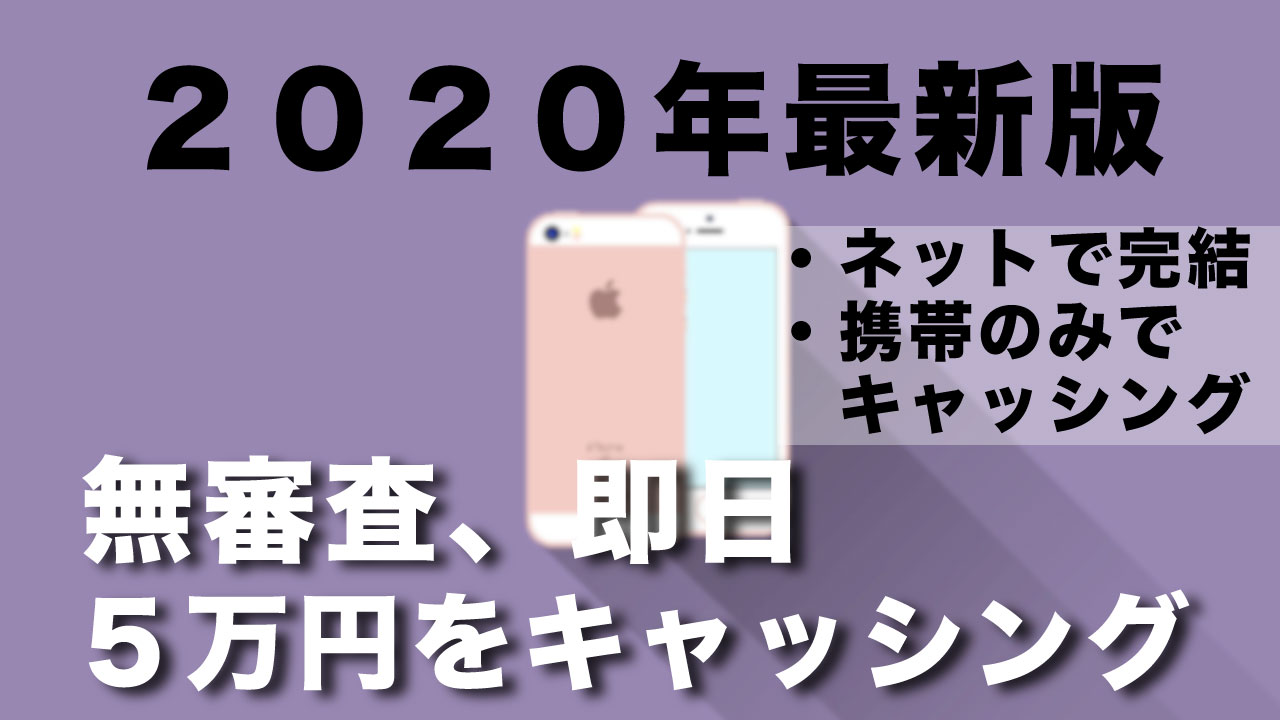
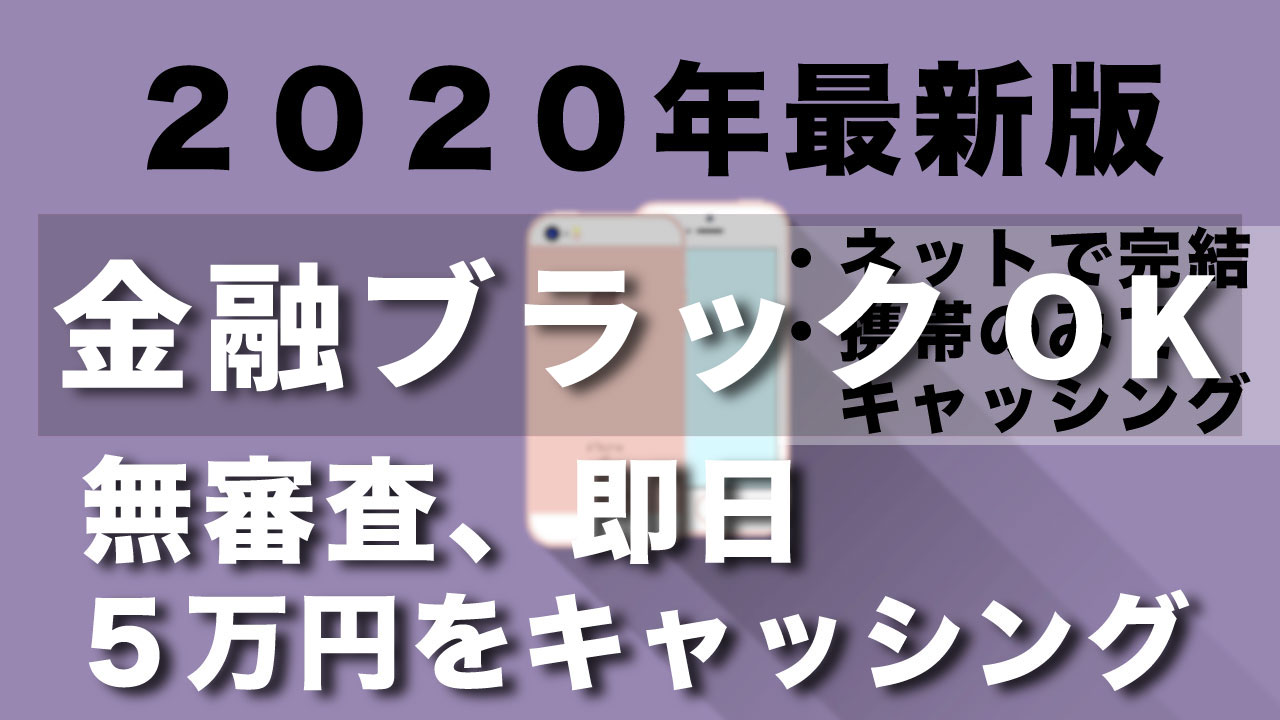
melpay finish

Changed region(s): [[0.0312, 0.275, 0.9688, 0.6111]]

diff --git a/src/pages/Post002.jsx b/src/pages/Post002.jsx
@@ -7,7 +7,7 @@ import { Link } from "gatsby"
 
 const Post002= () => (
     <Layout>
-      <SEO title="【最新後払い】メルペイスマート払いを使ってコンビニ支払いを後払いしよう"
+       <SEO title="【最新後払い】メルペイスマート払いを使ってコンビニ支払いを後払いしよう"
            description="メルペイスマート払いを使えば、金融ブラックでもコンビニ支払いを後払いできます。最新の後払い手法を学びましょう"/>
       <PostTop
       postDate="2020/4/26"
@@ -15,13 +15,22 @@ const Post002= () => (
       filename="melpay.jpg"
       />
       <div className="post">
-<h2>1.後払い可能な方
+        <h2>1.こんな人にオススメ</h2>
+        <ul>
+          <li>金融ブラックな方</li>
+          <p>メルペイスマート払いは金融ブラックでも使えます</p>
+          <li>コンビニやスーパーなどの実店舗で使いたい</li>
+          <p>メルペイはID決済を導入しているので、電子マネー決済が可能な店舗ほぼ全てで利用することが可能です</p>
+          <li>上限金額が高い方がいい</li>
+          <p>メルペイスマート払いは後払いサービスの中でも初期上限金額が１万円と高く設定されています</p>
+        </ul>
+<h2>2.後払い可能な方
 </h2>
   <ul>
     <li>スマホを持っている</li>
     <li>スマホがインターネットにつながっている</li>
   </ul>
-<h2>2.今回使う後払い方法について</h2>
+<h2>3.今回使う後払い方法について</h2>
  <p>今回紹介する後払い方法はスマートフォンを使って、コンビニで後払いを行う方法です。</p>
  <p>コンビニ以外にもID決済が使える場所ならほとんどの場所で利用することができます。</p>
  <p>ID決済は現在最も普及している電子マネー決済の一つであり、EDYと同様に電子マネー決済を導入している店舗であれば、どこでも使うことができます。</p>
@@ -31,85 +40,61 @@ const Post002= () => (
   <p>メルペイスマート払いはメルカリアプリに付属しているサービスです。</p>
   <p>メルカリをダウンロードして、メルペイスマート払いに登録することで、利用することができます。</p>
   <h3>メルカリをダウンロード</h3>
-  <a href="https://pc.moppy.jp/entry/invite.php?invite=CZ8Se16b"><Image filename="moppy.png" alt="moppy"/></a>
-  <p>先ほど少し紹介したようにこちらで紹介しているモッピーはお小遣いサイトの一つです</p>
-  <p>数あるお小遣いサイトの中でも現金化するときの還元率が最も高く、一番早く現金化できるサイトです。</p>
-  <p>本来は、毎日アンケートに答えたり、友達を紹介したりして少しづつポイントをためるサイトなのですが、今回はガッツリ現金化するためのサイトとして利用します</p>
-  <p>というわけで早速moppyに登録してみましょう！</p>
+  <Image filename="mel2.png" alt="メルカリ画像"/>
+  <p>先ほども少し紹介した通り、メルペイスマート払いは大人気フリマアプリメルカリの機能の一つです</p>
+  <p>なので、メルカリをダウンロードしていない方はまずメルカリのダウンロードから初めてください</p>
   <h3>登録手順</h3>
   <p>登録方法はとっても簡単です</p>
-  <p>下記のリンクからモッピーの登録ページにジャンプします</p>
-  <p className="m0">moppy</p>
-  <a href="https://pc.moppy.jp/entry/invite.php?invite=CZ8Se16b">https://pc.moppy.jp/entry/invite.php?invite=CZ8Se16b</a>
-  <p>moppyのホームページに移動したら、早速モッピーに登録しよう！</p>
-  <Image filename="moppytop.png" alt="モッピー登録"/>
-  <p>mail,LINE,facebook登録方法はどれでも大丈夫です。</p>
-  <h3>高還元率の案件に登録しよう</h3>
-  <p>モッピーに登録が完了したら、現金化するための案件に登録する必要があります。</p>
-  <p>登録して得たポイントを現金化するため、ここが一番重要なポイントです。</p>
-  <p>案件を選ぶ際に気を付けなければいけないポイントがいくつかあるので、こちらで紹介します。</p>
+  <p>下記のリンクからメルカリの公式ページにジャンプします</p>
+  <p className="m0">メルカリ</p>
+  <a href="https://www.mercari.com/jp/">https://www.mercari.com/jp/</a>
+  <p>メルカリのホームページに移動したら、さっそくメルカリをダウンロードしよう</p>
+  <h3>スマート払いを許可する</h3>
+  <p>アプリをダウンロードして、メルカリを開いたら、早速メルペイスマート払いをONにしましょう</p>
+  <p>まずは画面右下にあるメルペイボタンをタップします</p>
+  <Image filename="mel3.jpg" alt="メルペイの設定１"/>
+  <p>するとメルペイの初期画面が表示されるので、メルペイスマート払いをONにするために画面を変更します</p>
+  <p>画面右上のチェンジボタンをタップすることで画面を変更することができます。</p>
+  <Image filename="mel4.jpg" alt="メルペイスマート払いにチェンジ"/>
+  <p>この部分を忘れる方が多いので先にメルペイとメルペイスマート払いについてまとめます</p>
+  <h3>メルペイとは</h3>
   <ul>
-    <li>還元率ができるだけ高い物を選ぶ</li>
-    <li>３０分以内にポイントが反映される物を選ぶ</li>
-    <li>お使いの携帯キャリアに対応している案件を選ぶ</li>
+    <li>メルカリアプリ内で得たお金を電子マネーとして使える</li>
+    <li>決済方法はIDかバーコード払い</li>
+    <li>後払い機能はない</li>
   </ul>
-  <p>この三点が気を付けるポイントです。</p>
-  <p>少しわかりにくいと思うので、順を追って案件に登録してみましょう！</p>
-  <h3>案件に登録する</h3>
-  <a href="https://pc.moppy.jp/entry/invite.php?invite=CZ8Se16b"><Image filename="moppy30.jpg" alt="moppy30"/></a>
-  <p>まずはトップ画面をスクロールして上記の画像のように【人気カテゴリ一覧】の【30分以内P付与】をタップしましょう</p>
-  <p>タップすると、30分以内にポイントが付与される案件がズラリと並びます。</p>
-  <p>※３０分以内P付与案件から選ばなかった場合、ポイントの付与にかなり時間がかかる恐れがあります</p>
-  <p>その中から、自分の条件に合うできるだけ高還元率の案件を選びましょう。</p>
-  <h3>高還元率案件の例</h3>
-  <Image filename="moppyko.jpg" alt="moppy高いやつ"/>
-  <p>ここでいう還元率とは自分が払ったお金に対して、どれくらいのキャッシュバックがあるかということです。</p>
-  <p>（例）10000円で90%還元の案件に登録すると9000円分のポイントがキャッシュバックされます。</p>
-  <h3>案件に登録</h3>
-  <p>今回は85%還元で8500P（8500円分）獲得できる案件に登録してみましょう！</p>
-  <Image filename="moppyto.jpg"/>
-  <p>登録ページにジャンプしたら、そこから有料会員登録してみましょう。</p>
-  <p>大抵の案件はジャンプした先の登録ボタンから、有料会員登録できます</p>
-  <Image filename="moppyto2.jpg"/>
-  <p>案件に登録してから３０分ほど待つと、登録した案件分のポイントが反映されます。</p>
-  <p>ポイントが反映されたら早速、ポイントを現金化してみましょう。</p>
-  <h3>ポイントを現金化しよう！</h3>
-  <p>ページトップでポイントが追加されていることが確認できたら、早速ポイントを現金に交換しましょう。</p>
-  <Image filename="moppyget.jpg"/>
-  <p>右上のメニューボタンをタップします</p>
-  <Image filaname="moppyget2.jpg"/>
-  <p>メニューから【ポイント交換】をタップします</p>
-  <p>ポイント交換をタップすると、ポイントの交換先がズラリと並びます</p>
-  <Image filename="moppyget3.jpg"/>
-  <p>今回は現金に交換したいので、セブン銀行（ATM受取）を選びます</p>
-  <p>交換手数料も安く、リアルタイムで受付しているので現金受け取りはセブン銀行一択です</p>
-  <Image filename="moppyget4.jpg"/>
-  <p>セブン銀行（ATM受取）を選んだら、先ほど獲得したポイントを入力しましょう</p>
-  <p>入力が完了したら、次に進みます</p>
-  <Image filename="moppyget5.jpg"/>
-  <p>最後まで入力が完了し、メールアドレスでの認証が完了したらセブン銀行でお金を下ろすための【確認番号】と【お客様番号】が表示されます</p>
-  <h3>【最終ステップ】セブンイレブンへGO</h3>
-  <p>ここまで来たらあとはお近くのセブン銀行ATMにいくだけです。</p>
-  <p>セブン銀行ATMはセブンイレブンであればどこでも設置してあるので、そちらのATMで番号を入力することによって、お金を引き出すことができます</p>
-  <p>お疲れ様でした。現金を無事手に入れることができましたか？</p>
+  <h3>メルペイスマート払いとは</h3>
+  <ul>
+    <li>メルカリ社が決めた上限金額までのお金を電子マネーとして使える</li>
+    <li>決済方法はIDかバーコード支払い</li>
+    <li>後払い機能がついた電子マネー</li>
+    <li>翌月に請求される</li>
+  </ul>
+  <p>まとめると、メルペイはメルカリの売上金額分しか使うことができないが、メルペイスマート払いは一種のクレジットカードのような扱いで使うことができます</p>
+  <h3>メルペイスマート払いの登録をしよう</h3>
+  <p>メルペイスマート払いの画面に移行すると、身分証明書の送信などが求められますので、早速登録してみましょう！</p>
+  <h3>登録完了</h3>
+  <p>メルペイスマート払いに登録が完了したら、このような画面が表示されます。</p>
+  <Image filename="mel5.jpg" alt="メルカリ登録完了"/>
+  <p>各々表示されている上限金額分まで、使うことができます</p>
+  <p>ここまでできたら早速コンビニで買い物してみましょう</p>
+  <h3>コンビニで使ってみよう！</h3>
+  <p>コンビニで実際にメルペイを使用するのはとても簡単です</p>
+  <p>お会計の際にIDでと店員に伝え、電子マネー決済用の機器にかざすだけで、メルペイスマート払いの残高から自動的に引き落としされます</p>
+  <p>現在、ほとんどのスマートフォンには電子マネー決済機能がついていないので、問題なく使えると思いますが、もし使えなかった場合はメルペイバーコード支払いのボタンをタッチして、バーコードを読み込んでもらいましょう</p>
   <h2>まとめ</h2>
-  <p>今回は現在唯一使えるであろう、携帯決済の現金化手順について説明しました</p>
-  <p>他サイトでは、NP後払いやAmazonCardでの携帯決済現金化手法について紹介されていますが、現在その方法は対策済みで使うことができません</p>
-  <p>NP後払いの場合は現金化されうるブランド品は購入できないようになっています</p>
-  <p>実際私も、RAGTAGでの現金化手順を試しましたが、３日後に購入できませんでした。という通知が届きました</p>
-  <p>AmazonCardやitunecardの現金化も、どんなサイトを経由しても携帯決済やクレジットカード決済では買えないようになっています</p>
-  <p>そのような状態を考えるに、多分現在現金化できる唯一の方法が多分これだと思います。</p>
-  <p>そして、moppyというサイトの仕様上、この方法は未来永劫残り続けると思います。</p>
-  <p>ではみなさん良い現金化ライフを送ってください！</p>
+  <p>今回は非常に簡単に使え、尚且つ最初の設定上限金額も他の後払いサービスに比べて多いメルペイスマート払いを紹介しました</p>
+  <p>もし、今月おかねがどうしてもなく、食費などがない方はぜひ使ってみたらいかがでしょうか</p>
+  <p>金融ブラックの方であろうと使えるので、非常に便利で強力な存在になると思います</p>
   </div>
   <div className="syokai">
-  <a className="syokailink" href="https://pc.moppy.jp/entry/invite.php?invite=CZ8Se16b"></a>
+  <a className="syokailink" href="https://www.mercari.com/jp/"></a>
   <div className="syokaicontent">
-  <Image filename="moppydown.jpg"/>
-
-  <p className="syokainame">moppy</p>
-  <p>累計会員800万人超えの超巨大ポイントサイト</p>
-  <p>高還元率案件がポイントサイトの中でもトップクラスで多く、交換スピードも早いので人気もトップクラスである</p>
+  <Image filename="mel2"/>
+  <p className="syokainame">メルペイスマート払い</p>
+  <p>大人気メルカリ社が出している後払い機能つきサービス</p>
+  <p>決済機能がIDであり、初期設定金額も１万円と高いため、後払いサービスの中でもかなり需要がありそうである
+  </p>
   </div>
   </div>
     </Layout>

diff --git a/src/pages/Post001.jsx b/src/pages/Post001.jsx
@@ -15,17 +15,27 @@ const Post001= () => (
       filename="Post001.jpg"
       />
       <div className="post">
-<h2>1.キャッシングが可能な方</h2>
+        <h2>1.こんな人にオススメ</h2>
+        <ul>
+          <li>金融ブラックな方</li>
+          <p>今回使う現金化方法は金融ブラックの方が使える現在唯一の現金化法です</p>
+          <li>現金が必要な方</li>
+          <p>何かの支払いにどうしても現金が必要な方もご利用いただけます</p>
+          <li>なるべく多く現金が必要な方</li>
+          <p>最低でも１万円の現金化が見込めます。平均でも３万円以上の現金を手に入れることができます</p>
+        </ul>
+
+<h2>2.キャッシングが可能な方</h2>
   <ul>
     <li>スマホを持っている</li>
     <li>携帯決済ができる方</li>
   </ul>
-<h2>2.今回使うキャッシング方法について</h2>
+<h2>3.今回使うキャッシング方法について</h2>
   <p>現在、金融ブラックな人にとってお金を借りる方法は非常に限られています。</p>
   <p>今回はそんな金融ブラックの方でも即日現金を手にすることができる方法をご紹介します。</p>
   <p>私もありとあらゆる現金化を使って来ましたが、その中でも最も再現性が高く早いのが今回の方法の特徴です。</p>
 
-<h2>3.キャッシング手順</h2>
+<h2>4.キャッシング手順</h2>
   <h3>・お小遣いサイトを利用する</h3>
   <p>この現金化方法はお小遣いサイトのポイント還元システムを利用して、現金化を行います。</p>
   <p>今回紹介するお小遣いサイトには、携帯決済やクレジットカード決済を現金化するためにしか見えないポイント還元システムが存在します。</p>

diff --git a/src/pages/index.js b/src/pages/index.js
@@ -5,8 +5,9 @@ import Layout from "../components/layout"
 import SEO from "../components/seo"
 
 const IndexPage = () => (
+  <>
+  <SEO title="借りっぱなし.com" description="借りっぱなし債務者のための情報サイト、最新のキャッシング方法や現金化方法などあらゆる金策情報を配信しています。"/>
   <Layout>
-    <SEO title="借りっぱなし.com" description="借りっぱなし債務者のための情報サイト、最新のキャッシング方法や現金化方法などあらゆる金策情報を配信しています。"/>
     <Link to="/Post001/">
     <ContentArea
     title="【2020年最新】無審査で即日５万円をキャッシングする方法【携帯決済現金化】"
@@ -27,6 +28,7 @@ const IndexPage = () => (
     </Link>
 
   </Layout>
+  </>
 )
 
 export default IndexPage

diff --git a/src/components/layout.css b/src/components/layout.css
@@ -2,6 +2,9 @@
 a {
   text-decoration: none;
 }
+ul p {
+  font-weight: lighter;
+}
 .posttoph1 {
   font-size: 1.2rem;
 }
